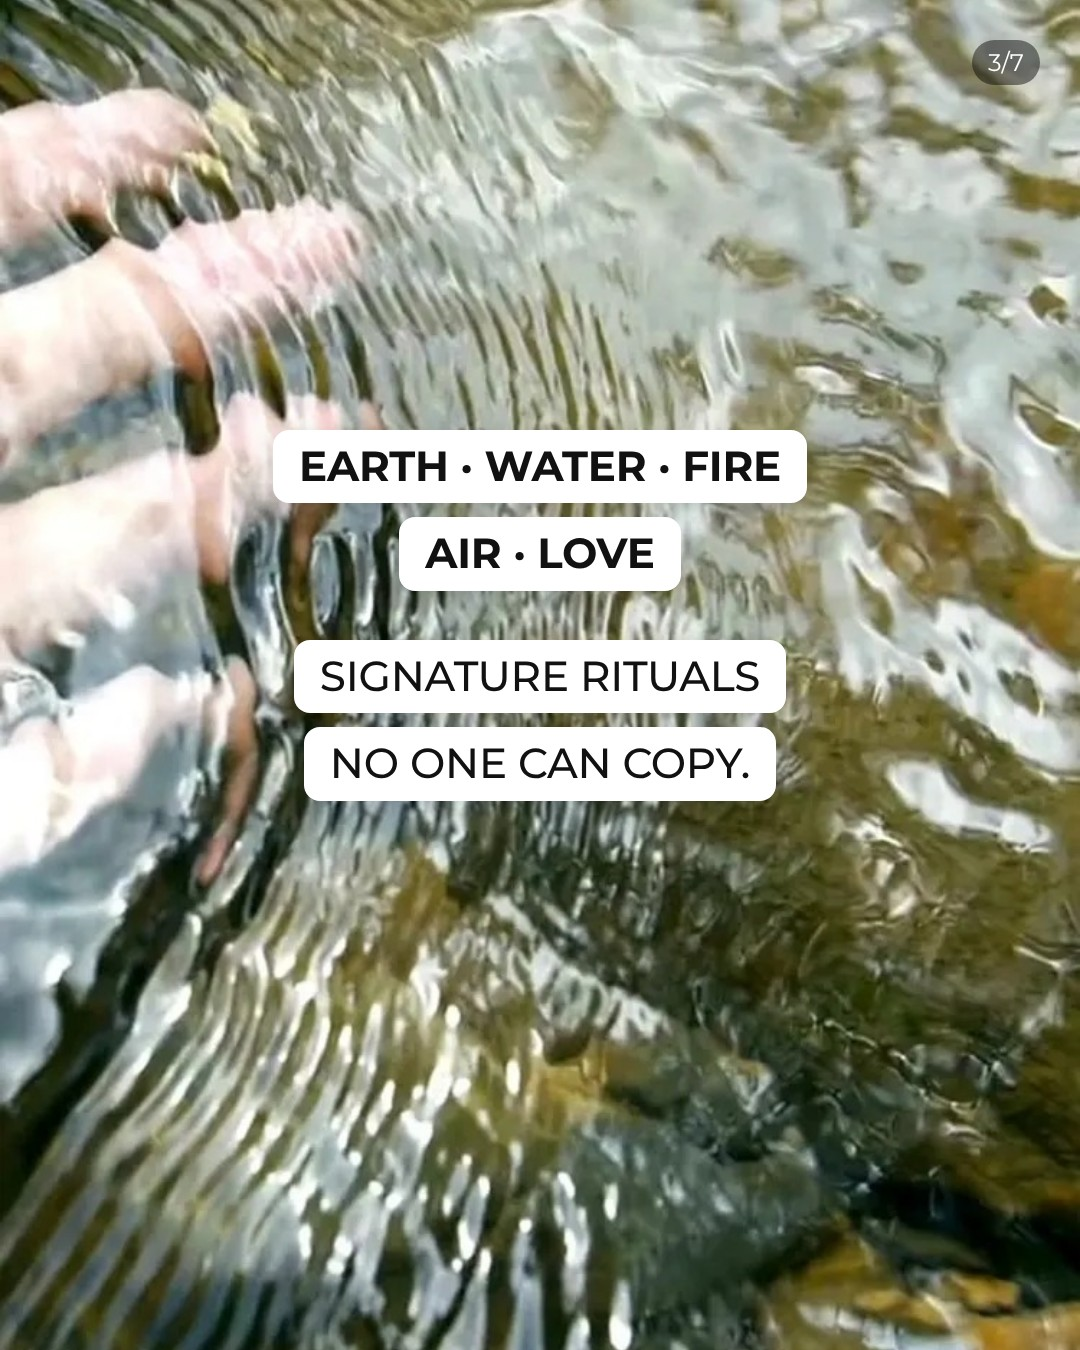
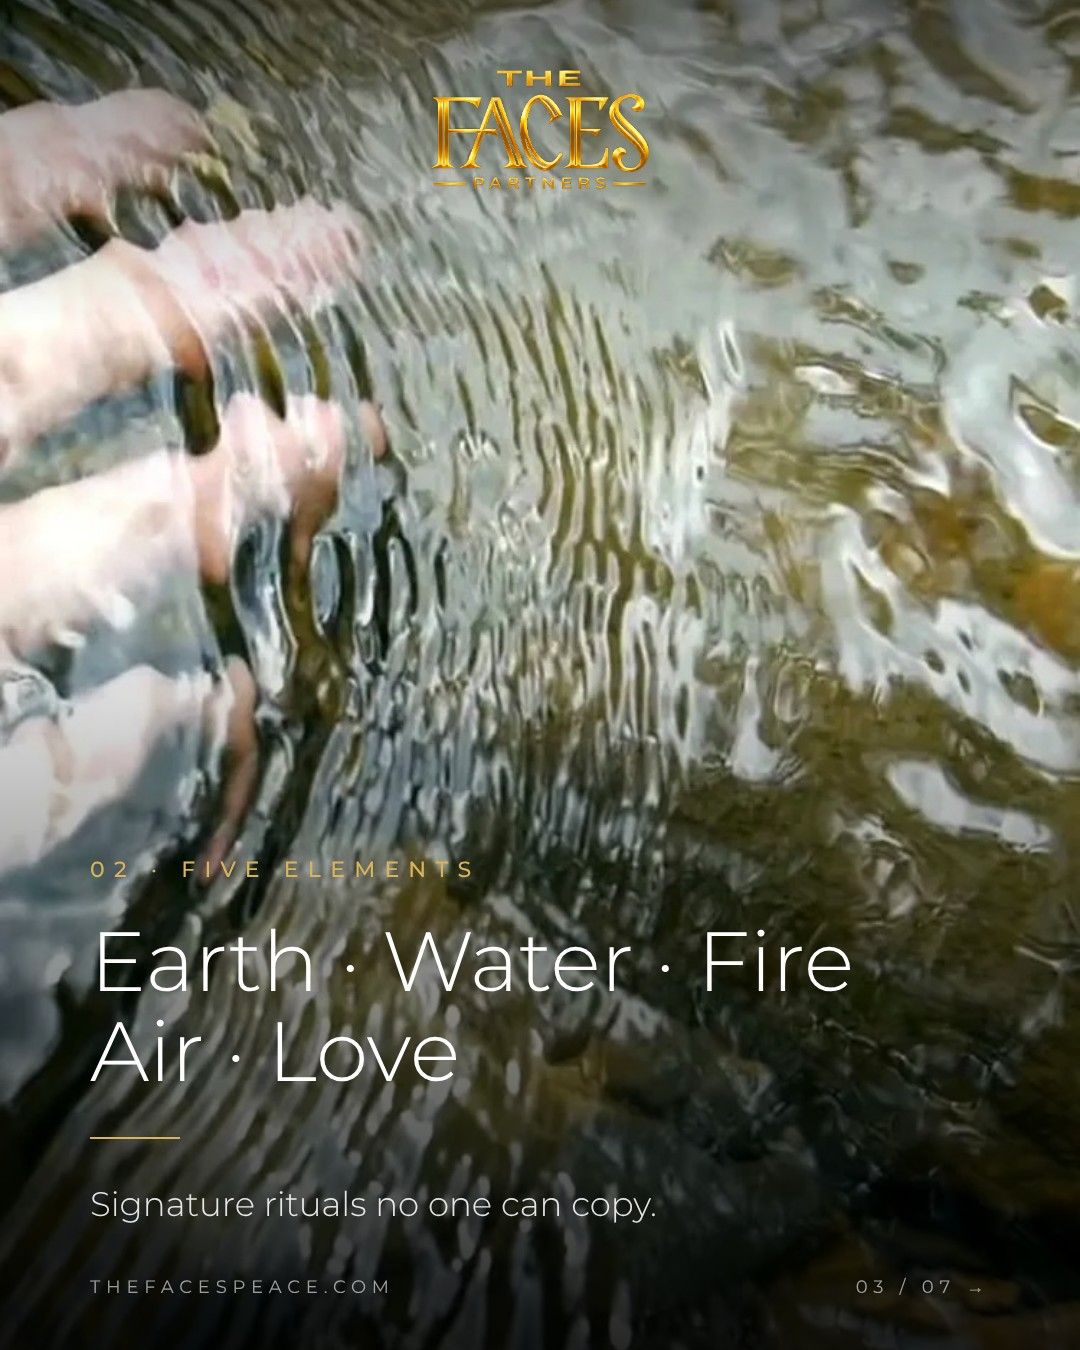
SPA carousel in THE FACES PARTNERS style, no prices (RU + EN)
Claude-Session: https://claude.ai/code/session_0168Ny8DPrNzxWvkitm1ogaf

diff --git a/thefaces/invest/contenido-3/carousel4.py b/thefaces/invest/contenido-3/carousel4.py
@@ -1,0 +1,61 @@
+"""Same story as carousel3, in THE FACES PARTNERS style (dark, gold, Montserrat light). No prices. RU + EN."""
+import os, json, html
+D = os.path.dirname(os.path.abspath(__file__))
+I = 'file://' + os.path.join(D, '_img') + '/'
+FONTS = 'file:///tmp/claude-0/-home-user-p-Prueba--/da6eeaca-3a38-54c2-b2cc-cd456339a57d/scratchpad/deck/fonts/fonts.css'
+
+# kind, image, eyebrow, title, text
+S = {
+'ru': [
+ ('photo', 'DSC03305-scaled.jpg', 'УБУД · БАЛИ', 'SPA, который\nуже работает', 'Не проект на бумаге. Реальные гости, реальная команда.'),
+ ('photo', 'g01-face.jpg', '01', 'Представьте\nутро здесь', 'Тишина. Тёплые масла. И ритуал пяти стихий.'),
+ ('photo', 'sense-touch.jpg', '02 · ПЯТЬ СТИХИЙ', 'Земля · Вода · Огонь\nВоздух · Любовь', 'Авторские ритуалы, которые нельзя скопировать.'),
+ ('dark', None, '03 · ПАРТНЁРСТВО', 'Вы — партнёр.\nМы управляем SPA.', '4 SPA-проекта в Убуде и Сануре. Условия обсуждаются индивидуально.'),
+ ('photo', 'g08-interior.jpg', '04', 'Всё ведёт\nнаша команда', 'Персонал, ритуалы, маркетинг, запись. Вы получаете ежемесячный отчёт.'),
+ ('photo', 'founders.jpg', '05 · ОСНОВАТЕЛИ', 'С документами\nвсё прозрачно', 'Договор, отчёты и визит на объект — до любого решения. Анна и Евгений Дубинины.'),
+ ('cta', None, 'ЗАИНТЕРЕСОВАЛИСЬ?', 'Напишите «SPA»\nв комментариях', 'и мы отправим вам подробную информацию'),
+],
+'en': [
+ ('photo', 'DSC03305-scaled.jpg', 'UBUD · BALI', 'A spa that\nalready works', 'Not a project on paper. Real guests, a real team.'),
+ ('photo', 'g01-face.jpg', '01', 'Imagine your\nmorning here', 'Silence. Warm oils. And a Five Elements ritual.'),
+ ('photo', 'sense-touch.jpg', '02 · FIVE ELEMENTS', 'Earth · Water · Fire\nAir · Love', 'Signature rituals no one can copy.'),
+ ('dark', None, '03 · PARTNERSHIP', 'You are the partner.\nWe run the spa.', '4 spa projects in Ubud and Sanur. Terms are agreed individually.'),
+ ('photo', 'g08-interior.jpg', '04', 'Our team\nhandles everything', 'Staff, rituals, marketing, bookings. You receive a monthly report.'),
+ ('photo', 'founders.jpg', '05 · THE FOUNDERS', 'The paperwork\nis clear', 'Agreement, reports and a site visit — before any decision. Anna & Evgenii Dubinin.'),
+ ('cta', None, 'INTERESTED?', 'Comment «SPA»\nbelow', 'and we will send you the full details'),
+]}
+
+CSS = """*{margin:0;padding:0;box-sizing:border-box}body{width:1080px;height:1350px;font-family:Montserrat,sans-serif;background:#0b0b0a;color:#fff;position:relative;overflow:hidden}
+.bg{position:absolute;inset:0;background-size:cover;background-position:center}
+.sh{position:absolute;inset:0;background:linear-gradient(180deg,rgba(0,0,0,.5) 0%,rgba(0,0,0,0) 24%,rgba(0,0,0,0) 42%,rgba(0,0,0,.85) 100%)}
+.logo{position:absolute;left:50%;top:64px;transform:translateX(-50%);width:230px}
+.ey{font-size:22px;font-weight:500;letter-spacing:.42em;color:#d9b45a;margin-bottom:30px}
+h1{font-size:84px;font-weight:300;line-height:1.08;white-space:pre-line}
+p{font-size:34px;font-weight:300;line-height:1.5;color:rgba(255,255,255,.88);max-width:880px}
+.btm{position:absolute;left:90px;right:90px;bottom:120px}
+.mid{position:absolute;left:90px;right:90px;top:50%;transform:translateY(-50%)}
+.line{width:90px;height:2px;background:#d9b45a;margin:40px 0}
+.foot{position:absolute;left:90px;right:90px;bottom:52px;display:flex;justify-content:space-between;font-size:18px;letter-spacing:.32em;color:rgba(255,255,255,.6)}
+.dark{background:radial-gradient(120% 90% at 50% 0%,#1d1a12 0%,#0b0b0a 60%)}
+.dark h1{color:#d9b45a}
+.cta .mid{text-align:center}.cta .biglogo{width:560px;margin:0 auto 70px;display:block}.cta .line{margin:40px auto}.cta p{margin:0 auto}
+.disc{position:absolute;left:90px;right:90px;bottom:70px;text-align:center;font-size:18px;color:rgba(255,255,255,.45);letter-spacing:.06em}"""
+
+def page(i, sl, tot):
+    k, img, ey, h, txt = sl; E = html.escape
+    logo = f'<img class="logo" src="{I}logo-gold-transparent.png">'
+    foot = f'<div class="foot"><span>THEFACESPEACE.COM</span><span>{i+1:02d} / {tot:02d}  →</span></div>'
+    if k == 'photo':
+        body = f'<div class="bg" style="background-image:url({I}{img})"></div><div class="sh"></div>{logo}<div class="btm"><p class="ey">{E(ey)}</p><h1>{E(h)}</h1><div class="line"></div><p>{E(txt)}</p></div>{foot}'; cls = ''
+    elif k == 'dark':
+        body = f'{logo}<div class="mid"><p class="ey">{E(ey)}</p><h1>{E(h)}</h1><div class="line"></div><p>{E(txt)}</p></div>{foot}'; cls = 'dark'
+    else:
+        body = f'<div class="mid"><img class="biglogo" src="{I}logo-gold-transparent.png"><p class="ey" style="letter-spacing:.3em">{E(ey)}</p><h1 style="font-size:66px">{E(h)}</h1><div class="line"></div><p>{E(txt)}</p></div><div class="disc">thefacespeace.com · Information only, not a public offer</div>'; cls = 'dark cta'
+    return f'<!doctype html><html><head><meta charset="utf-8"><link rel="stylesheet" href="{FONTS}"><style>{CSS}</style></head><body class="{cls}">{body}</body></html>'
+
+jobs = []
+for lang, slides in S.items():
+    for i, sl in enumerate(slides):
+        f = os.path.join(D, 'instagram', f'{lang}-{i+1:02d}.html'); open(f, 'w').write(page(i, sl, len(slides))); jobs.append(f)
+json.dump(jobs, open('/tmp/claude-0/-home-user-p-Prueba--/da6eeaca-3a38-54c2-b2cc-cd456339a57d/scratchpad/ig_jobs.json', 'w'))
+print(len(jobs))

diff --git a/thefaces/invest/contenido-3/instagram/texto-post.md b/thefaces/invest/contenido-3/instagram/texto-post.md
@@ -1,4 +1,4 @@
-# Carrusel «SPA que ya funciona» · estilo recuadros (RU + EN)
+# Carrusel «SPA que ya funciona» · estilo THE FACES PARTNERS (RU + EN), sin precios
 
 Imágenes: ru-01.jpg … ru-07.jpg (ruso) · en-01.jpg … en-07.jpg (inglés). Fotos de thefacesbali.com.
 
@@ -11,7 +11,7 @@ THE FACES — SPA-бренд Анны и Евгения Дубининых, на
 
 ✨ Авторская концепция «Пять стихий»: Земля, Вода, Огонь, Воздух, Любовь
 🌊 4 SPA-проекта в Убуде и Сануре
-🤝 Партнёрство от $250 000
+🤝 Вы — партнёр, мы управляем SPA. Условия обсуждаются индивидуально
 📊 Наша команда ведёт всё: персонал, ритуалы, маркетинг, запись. Вы получаете ежемесячный отчёт
 📑 Договор, отчётность и визит на объект — до любого решения
 
@@ -29,7 +29,7 @@ THE FACES is the spa brand of Anna and Evgenii Dubinin, in Bali since 2013.
 
 ✨ Signature Five Elements concept: Earth, Water, Fire, Air, Love
 🌊 4 spa projects in Ubud and Sanur
-🤝 Partnership from $250,000
+🤝 You are the partner, we run the spa. Terms are agreed individually
 📊 Our team runs everything: staff, rituals, marketing, bookings. You receive a monthly report
 📑 Agreement, reports and a site visit — before any decision
 
